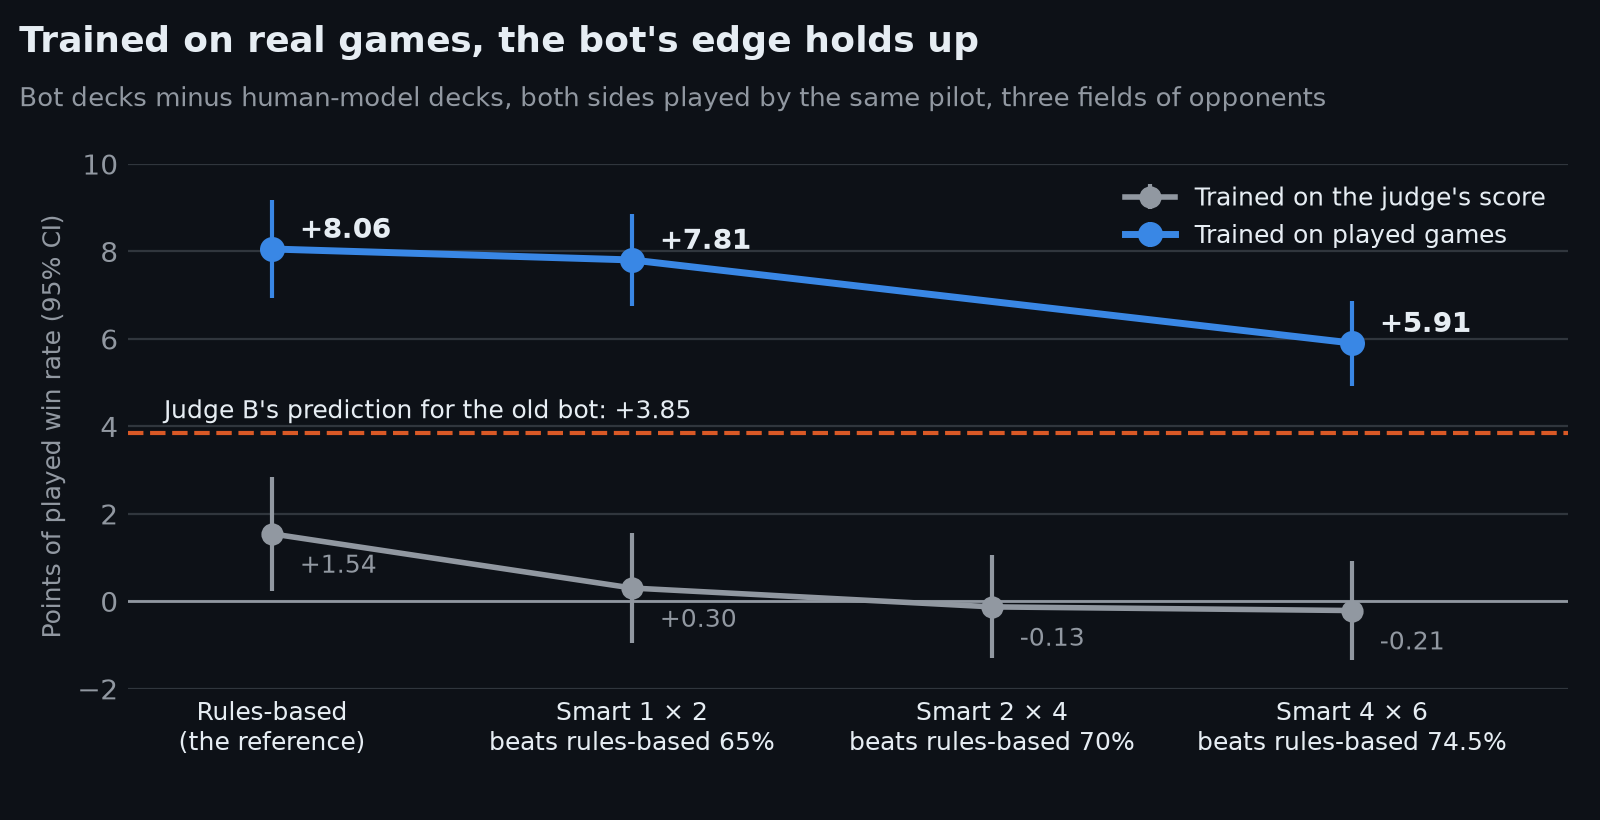
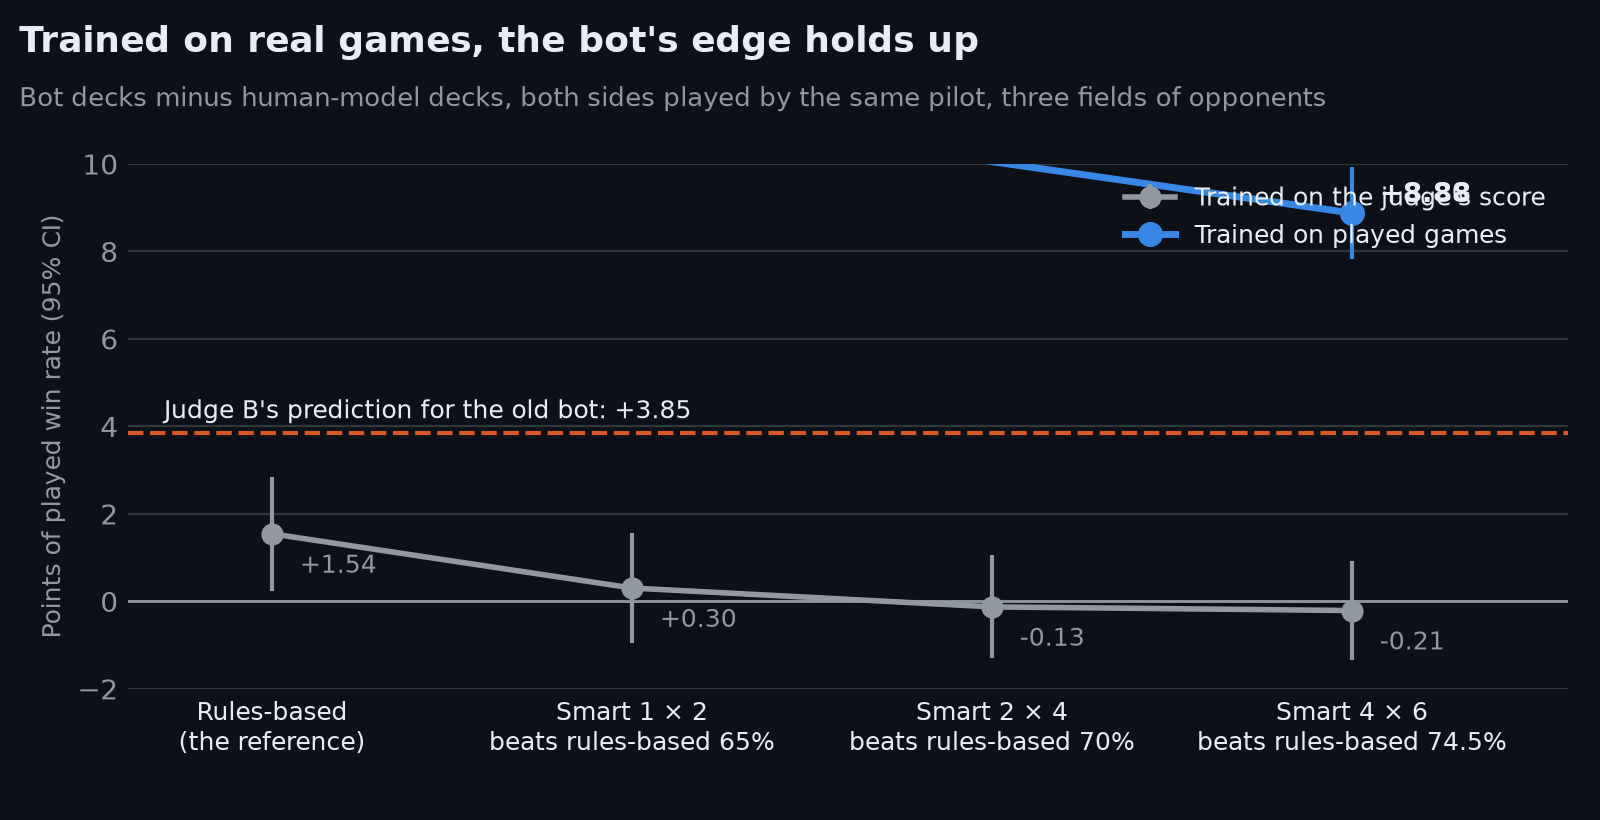
Report the finished played-reward bot: +8.9 pts with the stronger smart player (58.5% vs 49.6%)
Claude-Session: https://claude.ai/code/session_01Bo7t9xP2bSNZ3DZaJKShir

diff --git a/scripts/make_figures.py b/scripts/make_figures.py
@@ -241,7 +241,7 @@ def pilot_ladder(t, theme):
 def played_reward(t, theme):
     """The judge-trained bot and the played-reward bot at each pilot strength."""
     lad = load("engine_pilot_ladder")
-    new = load("engine_pilot_rl_played135")
+    new = load("engine_pilot_rl_played250")
     rows = lad["pilots"]
     x = np.arange(len(rows))
     judged = lad["judge_b_gap"] * 100

diff --git a/README.md b/README.md
@@ -33,8 +33,8 @@ Bolt the Bird got there in four steps:
    and **nothing** once both sides use a smart player that thinks a move ahead. Finding that out is
    what the engine was built for.
 4. **Learn from real games.** Retrained with played games as the reward instead of the judge, the
-   bot's decks win **55.5%** of games against the same human-style opponents that the human
-   model's decks beat 49.6% of the time: **+5.9 points**, even when both sides are played by a
+   bot's decks win **58.5%** of games against the same human-style opponents that the human
+   model's decks beat 49.6% of the time: **+8.9 points**, even when both sides are played by a
    stronger smart player than the one it trained against.
 
 <picture>
@@ -51,7 +51,7 @@ Bolt the Bird got there in four steps:
 | **Judge** | Predicts deck win rate, calibrated to within about a point | 78,379 held-out games |
 | **Learning to win** | +3.85 ± 0.23 points of judged win rate, 14% fewer late rares, 81% human-like | 512 held-out tables, scored by a judge excluded from training |
 | **Playing it out** | +1.54 ± 0.66 points of played win rate (rules-based player); −0.21 ± 0.58 (smart player) | The same 1,024 decks in the Rust engine, each against every deck of three separate 64-deck fields |
-| **Learning from real games** | +5.91 ± 0.50 points of played win rate with the strongest smart player (55.5% vs. 49.6%); +8.06 ± 0.57 with the rules-based player | The same tables and fields; the bot trained only against a weaker smart player |
+| **Learning from real games** | +8.88 ± 0.54 points of played win rate with the strongest smart player (58.5% vs. 49.6%); +12.26 ± 0.63 with the rules-based player | The same tables and fields; the bot trained only against a weaker smart player |
 
 Every number comes from a file in [`results/`](results/), and every chart is generated from those files
 by [`scripts/make_figures.py`](scripts/make_figures.py).
@@ -301,28 +301,33 @@ iteration, the same leash to the human model. A check first ([`scripts/played_re
 two independent sets of those games agree on which decks are better (split-half correlation
 0.56), so the reward is noisy but learnable. Judge A, by contrast, barely predicts them (0.11).
 
-Training ([`scripts/train_rl.py`](scripts/train_rl.py) `--reward played`) ran 139 iterations,
-about 250,000 games, before an engine crash stopped it (see Limitations). The iteration-135 bot
-then drafted the same 512 held-out tables and played the same three round-robins as before, the
-human model's decks playing the identical games:
+Training ([`scripts/train_rl.py`](scripts/train_rl.py) `--reward played`) ran 250 iterations,
+about 450,000 games. The finished bot then drafted the same 512 held-out tables and played the
+same three round-robins as before, the human model's decks playing the identical games:
 
 <picture>
   <source media="(prefers-color-scheme: dark)" srcset="docs/figures/played-reward-dark.png">
-  <img alt="Trained on played games, the bot's decks win +8.06 points more than the human model's with the rules-based pilot, +7.81 with the 1 × 2 smart player and +5.91 with the 4 × 6 smart player; the judge-trained bot falls from +1.54 to −0.21" src="docs/figures/played-reward-light.png">
+  <img alt="Trained on played games, the bot's decks win +12.26 points more than the human model's with the rules-based pilot, +11.23 with the 1 × 2 smart player and +8.88 with the 4 × 6 smart player; the judge-trained bot falls from +1.54 to −0.21" src="docs/figures/played-reward-light.png">
 </picture>
 
 | Pilot on both sides | Played-reward bot | Human model | Gap | Judge-trained bot's gap |
 |---|---|---|---|---|
-| Rules-based | 57.4% | 49.4% | **+8.06 ± 0.57** | +1.54 |
-| Smart 1 × 2 (trained against) | 57.2% | 49.4% | **+7.81 ± 0.54** | +0.30 |
-| Smart 4 × 6 (never trained against) | 55.5% | 49.6% | **+5.91 ± 0.50** | −0.21 |
+| Rules-based | 61.6% | 49.4% | **+12.26 ± 0.63** | +1.54 |
+| Smart 1 × 2 (trained against) | 60.7% | 49.4% | **+11.23 ± 0.59** | +0.30 |
+| Smart 4 × 6 (never trained against) | 58.5% | 49.6% | **+8.88 ± 0.54** | −0.21 |
 
-Every field agrees: +5.89, +5.79 and +6.04 with the 4 × 6 player. The edge holds with the
+Every field agrees: +8.88, +8.82 and +8.94 with the 4 × 6 player. The edge holds with the
 rules-based pilot, which the bot never trained with, and with the stronger smart player, which it
-never saw. It does shrink from about 8 points to about 6 as play improves, so part of what it
-learned pays off most against weaker play. Judge B rates the same change at only +0.6 points: the
-bot learned things the judge can't see. (The 2 × 4 player wasn't run for this bot.) Details:
-[`docs/engine/VALIDATION.md`](docs/engine/VALIDATION.md); numbers in
+never saw. It shrinks from about 12 points to about 9 as play improves, so part of what it learned
+pays off most against weaker play. Judge B rates the same change at only +0.9 points: the bot
+learned things the judge can't see.
+
+Training longer helped against every pilot. Halfway, at iteration 135, the same evaluation gave
++8.06, +7.81 and +5.91; from 135 to 250 the edge with the 4 × 6 player it never trained against grew
+by 3.0 points, about as much as with the 1 × 2 player it did train against (+3.4), so the extra
+training made better decks, not just decks tuned to its training pilot. (The 2 × 4 player wasn't run
+for these bots.) Details: [`docs/engine/VALIDATION.md`](docs/engine/VALIDATION.md); numbers in
+[`results/engine_pilot_rl_played250.json`](results/engine_pilot_rl_played250.json) and
 [`results/engine_pilot_rl_played135.json`](results/engine_pilot_rl_played135.json).
 
 ### Design decisions
@@ -347,10 +352,10 @@ Apple's GPU, the NaN-poisoned model hung the machine. The fix masks before the a
 - **The judged edge doesn't hold up in play.** Judge B says +3.85; played games show +1.5 with
   simple pilots and about zero with a stronger one. Both judges learned from human-built decks,
   so they share blind spots, and the bot found some. Rewarding played games instead fixed it.
-- **The played-reward bot is one short run.** Training stopped at iteration 139 when the engine
-  crashed with memory corruption that safe Rust shouldn't allow; the cause isn't found yet
-  ([`docs/engine/QUESTIONS.md`](docs/engine/QUESTIONS.md)). It trained against one weak pilot, and
-  its edge shrinks as the pilot gets stronger.
+- **The played-reward bot is one run, against one weak pilot.** Its edge shrinks as the pilot gets
+  stronger. Long runs three times hit a rare memory corruption that safe Rust shouldn't allow, cause
+  not found ([`docs/engine/QUESTIONS.md`](docs/engine/QUESTIONS.md)); training now plays its games
+  in a worker process that is restarted if it dies, and stored results replay identically.
 - **The pilots are not experts.** Both engine pilots play far below a strong human: neither one
   plans turns ahead, and both assume the opponent won't respond. Decks that reward skilled play
   can look worse here than they are.

diff --git a/docs/MODEL_CARD.md b/docs/MODEL_CARD.md
@@ -62,12 +62,12 @@ drafts and games from Arena players who run its tracker, and publishes them with
   smart player (it plays each candidate move out before choosing) that beats it 74.5% of the time (each deck against every deck of three separate
   64-deck fields, 196,224 games per pilot). The judged edge does not survive play. See
   `docs/engine/VALIDATION.md`.
-- **Played-reward bot (2026-11-10, `checkpoints/bot_rl_played_it135.pt`, not yet released):** the
+- **Played-reward bot (2026-11-12, `checkpoints/bot_rl_played_it250.pt`, not yet released):** the
   same RL with played games as the reward (seat 0's deck against its 7 tablemates, smart 1 × 2
-  player) instead of judge A; stopped at iteration 139 by an engine crash, iteration 135
-  evaluated. Same tables and round-robins: **+5.91 ± 0.50** points with the 4 × 6 smart player it
-  never trained against (55.5% vs. 49.6%), +7.81 ± 0.54 with the 1 × 2 it trained against,
-  +8.06 ± 0.57 with the rules-based pilot. Judge B rates it only +0.63 ± 0.21.
+  player) instead of judge A, 250 iterations. Same tables and round-robins: **+8.88 ± 0.54**
+  points with the 4 × 6 smart player it never trained against (58.5% vs. 49.6%), +11.23 ± 0.59
+  with the 1 × 2 it trained against, +12.26 ± 0.63 with the rules-based pilot. Judge B rates it
+  only +0.93 ± 0.23. (At iteration 135: +5.91, +7.81, +8.06.)
 - **Known bias:** it drafts White-Red at 45% of tables. In real 17lands games White-Red outperforms
   its pilots' skill by 2.1 points while making up under 8% of games, so the lane is strong and usually open
   against human-like drafters. It would be contested at a table of bots.

diff --git a/docs/engine/VALIDATION.md b/docs/engine/VALIDATION.md
@@ -157,3 +157,23 @@ from about 8 points to about 6 as play gets stronger, so part of it is tuned to 
 rates the bot only +0.63 ± 0.21 better: what it learned is mostly invisible to the judge. Caveats:
 one run, cut short; the pilots are still far below a strong human; opponents are human-model
 decks, not people.
+
+## The played-reward bot, finished (2026-11-12)
+
+The run resumed from checkpoint 135 (rl_played_b, which died at 171 with the third memory
+corruption) and from 165 (rl_played_c, engine games in a restartable worker process, no crash and
+no restart in ~150k games) to iteration 250. Played evals during training (smart 1 × 2, 256 tables
+× 16 field-A games): +8.34 (135), +9.46 (150), +9.61 (165, 180), +10.88 (210), +11.25 (240),
++11.40 (250); judge B +0.6 to +0.9 throughout. Same evaluation as for iteration 135
+(`results/engine_pilot_rl_played250.json`):
+
+| Pilot | A | B | C | **All three** | Win rate (bot / human model) | Iteration 135 |
+|---|---|---|---|---|---|---|
+| Rules-based | +12.17 | +12.08 | +12.53 | **+12.26 ± 0.63** | 61.6% / 49.4% | +8.06 |
+| Smart 1 × 2 (trained against) | +11.20 | +10.88 | +11.61 | **+11.23 ± 0.59** | 60.7% / 49.4% | +7.81 |
+| Smart 4 × 6 (never seen) | +8.88 | +8.82 | +8.94 | **+8.88 ± 0.54** | 58.5% / 49.6% | +5.91 |
+
+From 135 to 250 the edge grew by +4.2, +3.4 and +3.0 points with the three pilots: almost as much
+with the stronger pilot it never trained against as with the one it did, so the extra training
+made better decks rather than decks tuned to its training pilot. The drop from the 1 × 2 to the
+4 × 6 pilot is about the same at both checkpoints (−1.9 and −2.4).

diff --git a/docs/engine/LOG.md b/docs/engine/LOG.md
@@ -364,3 +364,4 @@ One line per working step, newest last. The next session continues from the last
 - 2026-11-10 — Resumed the played-reward run from checkpoint 135 (`--start-iter 136 --iters 250 --name rl_played_b`, fresh packs and seeds), guarded 10 h / 6 GB.
 - 2026-11-12 — The resumed run (rl_played_b) died at iteration 171 (third memory corruption, in `can_pay_for`, again inside a training process that holds PyTorch). Played evals: +8.34 (135), +9.46 (150). Engine games in training now run in a restartable worker process (`bolt.engine_worker.SafePlayer`, 3 tests: identical results, a killed worker is restarted and the batch replayed, gives up after 3). Resumed from checkpoint 165 as rl_played_c (166–250), guarded ~8 h.
 - 2026-11-12 — rl_played_c finished all 250 iterations with no crash and no worker restart (~150k games). Played evals (smart 1 × 2): +9.61 (165, 180), +10.88 (210), +11.25 (240), +11.40 ± 1.22 (250); judge B +0.93. Round-250 bot (checkpoints/bot_rl_played_it250.pt) into the round-robins: rules-based +12.17 / +12.08 / +12.53, all three +12.26 ± 0.63 (round 135: +8.06). Smart 1 × 2 and 4 × 6 running (`engine_pilot_newbot.sh rl_played250`).
+- 2026-11-12 — Round-250 evaluation done (no crashes): rules-based +12.26 ± 0.63, smart 1 × 2 +11.23 ± 0.59, smart 4 × 6 +8.88 ± 0.54 (58.5% vs 49.6%). README, model card, PLAN, VALIDATION and the played-reward chart now report the round-250 bot.

diff --git a/PLAN.md b/PLAN.md
@@ -11,7 +11,7 @@ records choices with their reasons, so they don't get relitigated later.
 | 2 | Judge, deck builder, draft simulator | Done (2026-11-04) |
 | 2b | RL against judge A, evaluated by judge B | Done (2026-11-05): +3.85 pts over 550 iterations, stopped at diminishing returns |
 | 3 | Rust rules engine with PyO3 bindings | Done (2026-11-06): all 286 cards; played edge +1.54 ± 0.66 (rules-based player), −0.21 ± 0.58 (smart player) vs. +3.85 judged |
-| 3b | RL rewarded by played games | Done (2026-11-10): +5.91 ± 0.50 pts played with the 4 × 6 smart player it never trained against, +8.06 with the rules-based pilot; run stopped at iteration 139 by an engine crash |
+| 3b | RL rewarded by played games | Done (2026-11-12): 250 iterations; +8.88 ± 0.54 pts played with the 4 × 6 smart player it never trained against (58.5% vs. 49.6%), +12.26 with the rules-based pilot |
 | 4 | Gameplay agent: rules-based, then imitation, then self-play | Rules-based and smart players done; imitation possible from 17lands replay data; next |
 
 ## Phase 3: the rules engine
